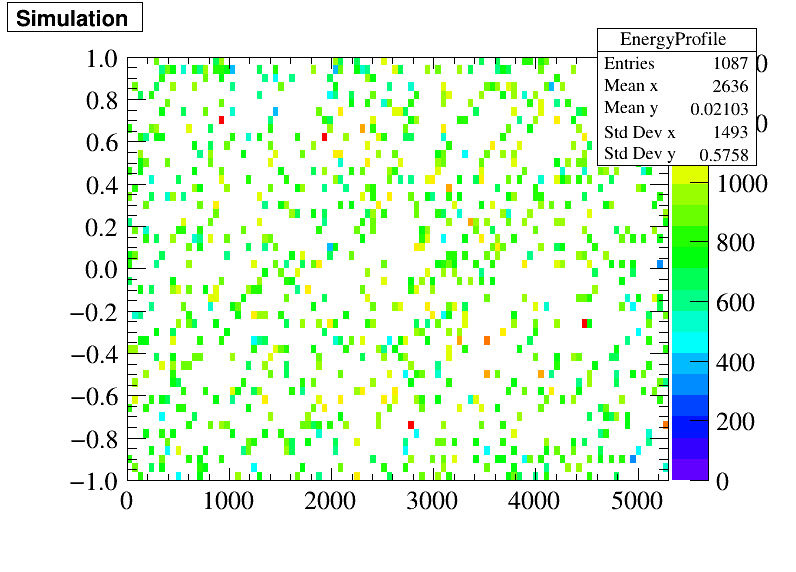
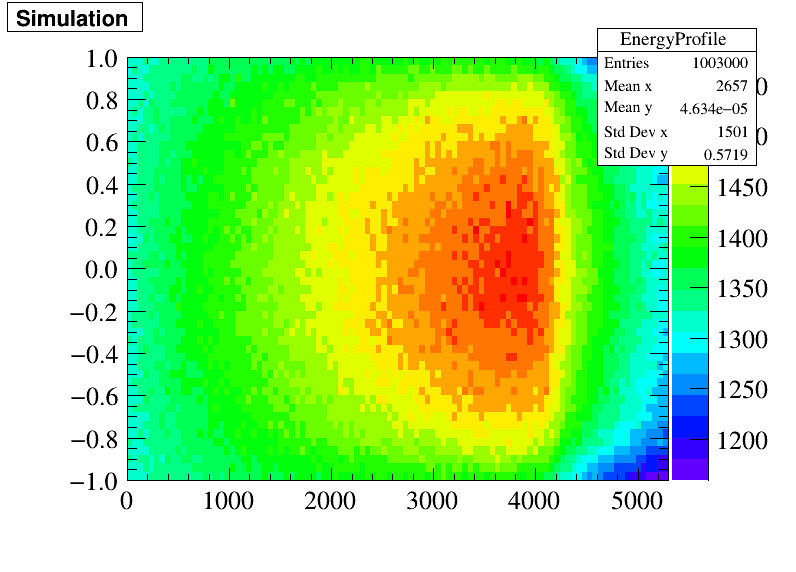
with only prompt energy

diff --git a/Roottest/EnergyLeakage/REL.py b/Roottest/EnergyLeakage/REL.py
@@ -22,7 +22,7 @@ if __name__ == "__main__":
     evt = ROOT.TChain("evt")
     geninfo = ROOT.TChain("geninfo")
     prmtrkdep = ROOT.TChain("prmtrkdep")
-    for nn in range(10000, 10001):
+    for nn in range(10000, 10999):
         if nn != 10216:
             evt.Add(HXD + str(nn) + ".root")
             geninfo.Add(HXD + str(nn) + ".root")
@@ -34,37 +34,38 @@ if __name__ == "__main__":
     evt.SetBranchStatus("hitTime", 1)
     # evt.SetBranchStatus("edep", 1)
     prmtrkdep.SetBranchStatus("edep", 1)
-    evt.SetBranchStatus("totalPE", 1)
+    # evt.SetBranchStatus("totalPE", 1)
     geninfo.SetBranchStatus("InitX", 1)
     geninfo.SetBranchStatus("InitY", 1)
     geninfo.SetBranchStatus("InitZ", 1)
-    # evt.GetEntry(int(sys.argv[1]))
+    # prmtrkdep.GetEntry(int(sys.argv[1]))
     # hitTime=np.asarray(evt.hitTime)
-    # print(np.sum(np.asarray(evt.hitTime)<1200),np.asarray(evt.hitTime).size)
-    h_ep = ROOT.TH2F("EnergyProfile", "Simulation", NBinx, Ran_x[0], Ran_x[1],
-                     NBiny, Ran_y[0], Ran_y[1])
+    # print(np.asarray(prmtrkdep.edep))
+    h_ep = ROOT.TH2F("EnergyProfile", "Simulation", NBinx, Ran_x[0], Ran_x[1],NBiny, Ran_y[0], Ran_y[1])
     # entries in each bin
     BinValue = np.zeros(h_ep.GetSize())
     for i in range(0, evt.GetEntries()):
         evt.GetEntry(i)
         geninfo.GetEntry(i)
         prmtrkdep.GetEntry(i)
+        edep=np.asarray(prmtrkdep.edep)
         PromptCount = np.sum(np.asarray(evt.hitTime) < 1200)
-        print(PromptCount, evt.edep[0])
         EvtPos = ROOT.TVector3(geninfo.InitX[0] / 1e3, geninfo.InitY[0] / 1e3,
                                geninfo.InitZ[0] / 1e3)
         R_cubic = EvtPos.Mag2()**1.5
         Costheta = EvtPos.CosTheta()
-        Photon2edep = float(PromptCount) / evt.edep[0]
+        Photon2edep = float(PromptCount) / edep[0]
         ithBIN = h_ep.Fill(R_cubic, Costheta, Photon2edep)
         if (ithBIN > 0):
             BinValue[ithBIN - 1] += 1
-        # print(hitTime.size)
     for i in range(0, BinValue.size):
         Contenti = h_ep.GetBinContent(i + 1)
         if BinValue[i] > 1:
             Contenti /= BinValue[i]
             h_ep.SetBinContent(i + 1, Contenti)
+            # print("num:",BinValue[i],Contenti)
+
+    
     c = ROOT.TCanvas("myCanvasName", "The Canvas Title", 800, 600)
     h_ep.Draw("colz")
     c.SaveAs("JUNOEnergyProfile.png")
@@ -72,7 +73,7 @@ if __name__ == "__main__":
     ff_EL.cd()
     h_ep.Write()
     ff_EL.Close()
-    
+
     # x_min=0
     # float(sys.argv[2])
     # x_max=np.max(hitTime)
